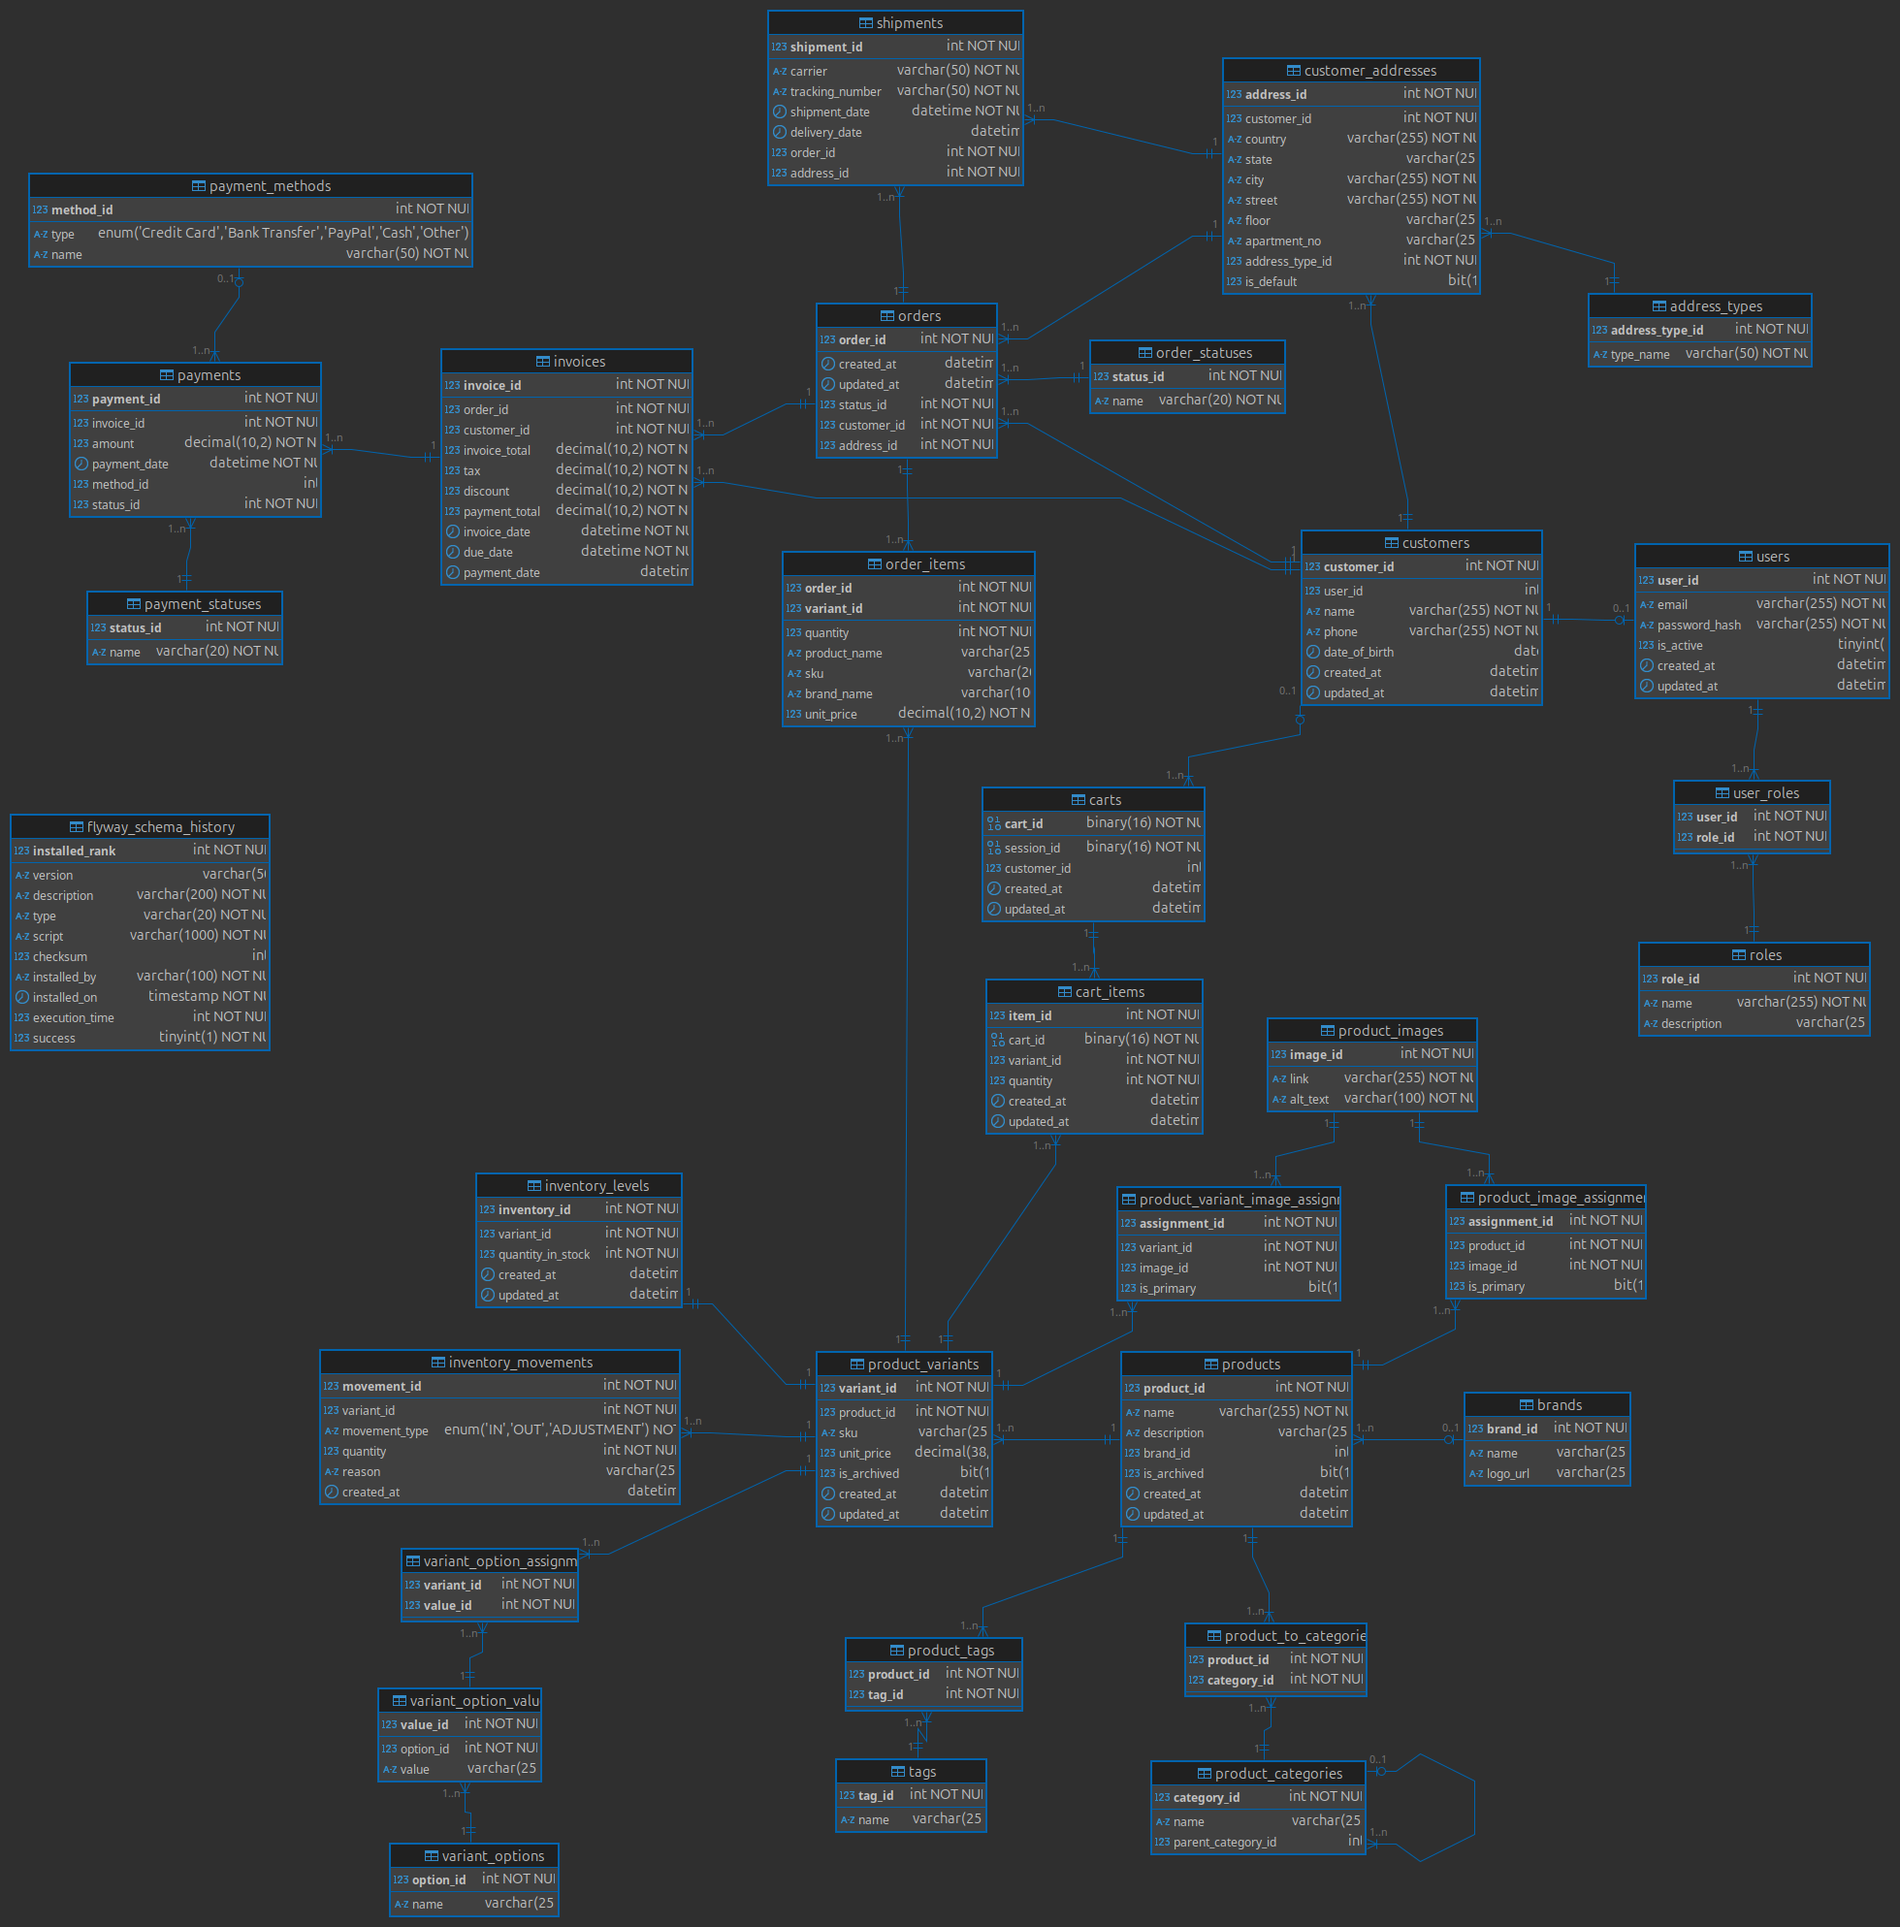
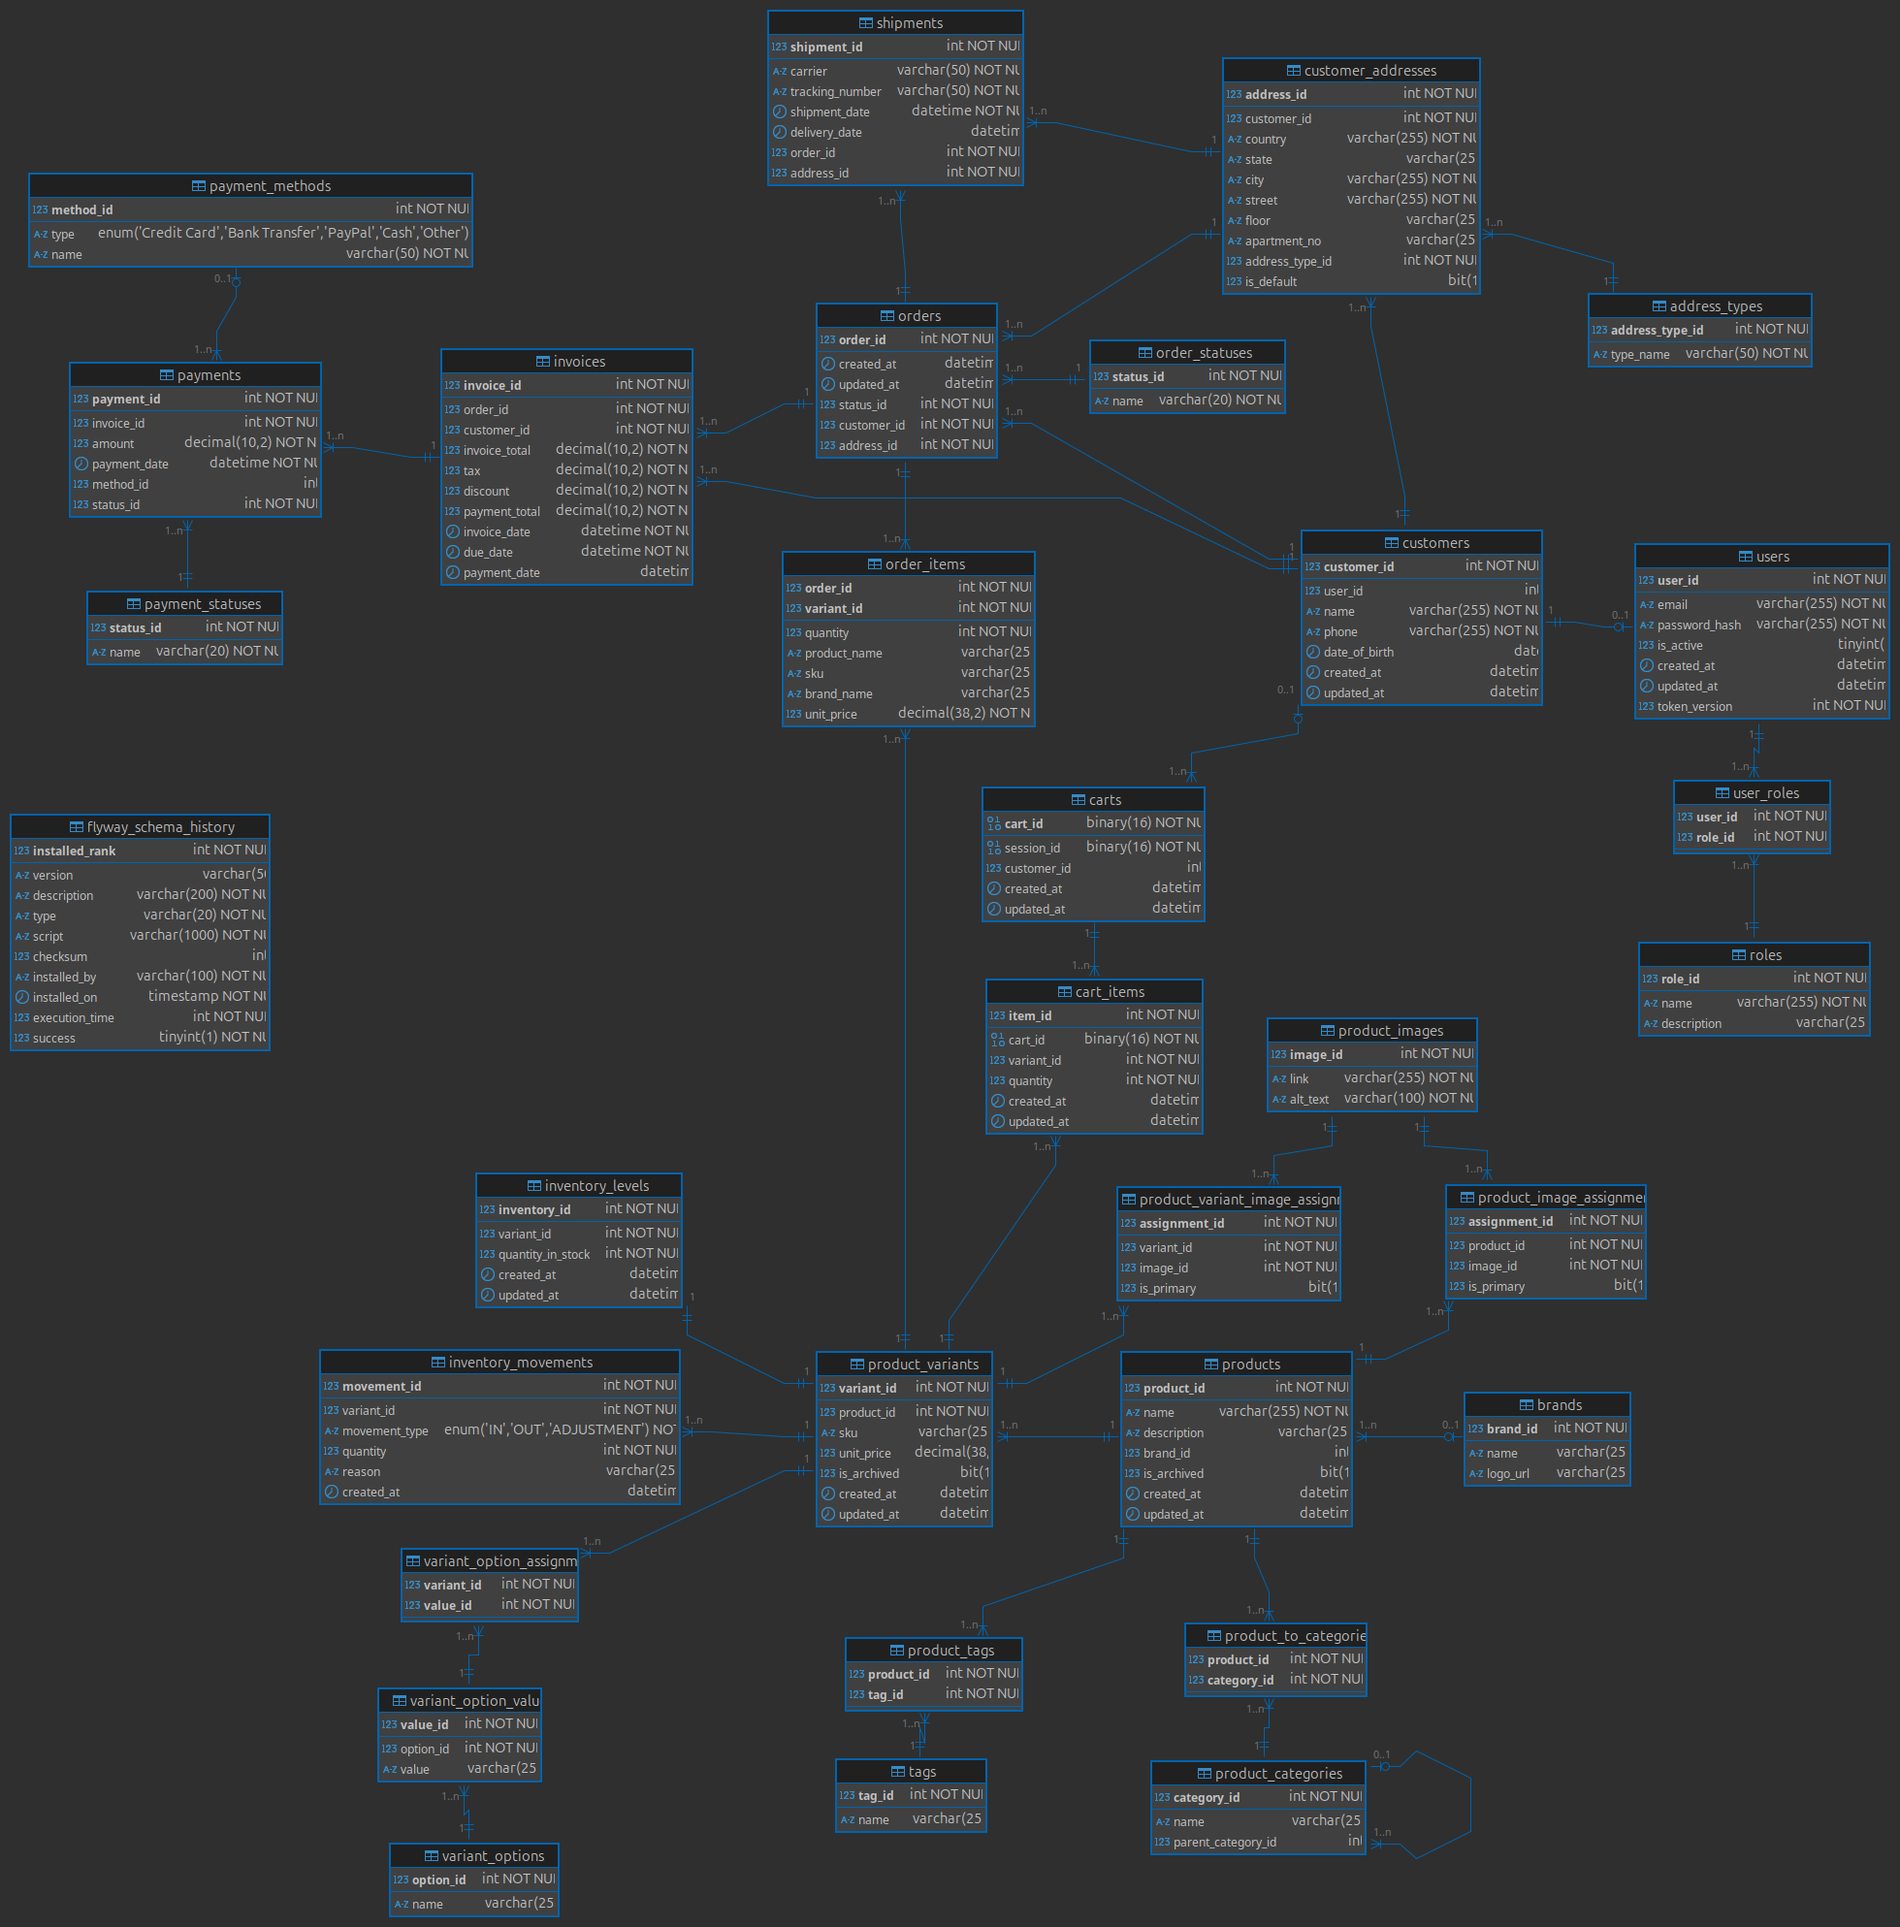
Add token_version column to users

Changed region(s): [[0.8719, 0.3432, 0.9342, 0.3744], [0.9653, 0.3432, 0.9964, 0.3744]]

diff --git a/documents/RnD_Notes.md b/documents/RnD_Notes.md
@@ -16,6 +16,9 @@ I eventually decided to split the customer from user models, that is, separating
 - `password_hash`
 - `is_active`
 - `created_at` / `updated_at`
+- `token_version`
+
+Note: `token_version` column is used to globally log users out, when they change their password.
 
 ### `roles` table
 
